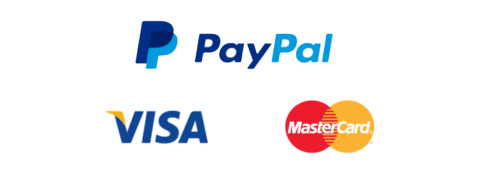
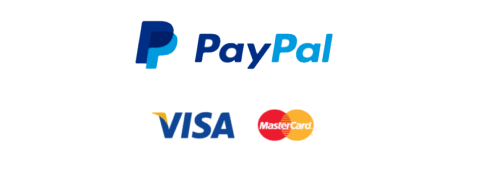
big update

Changed region(s): [[0.5283, 0.5882, 0.7925, 0.9118], [0.2055, 0.6471, 0.499, 0.8529]]

diff --git a/index.html b/index.html
@@ -1005,12 +1005,12 @@ USE OF THIS APP IS FOR PERSONAL USE IN COUNTRIES WHERE THE CONSUMPTION OF ALCOHO
 
 </div>
 <div id="choosepaymentoptions" class="animated fadeIn">
-<h1 style="display:none;">Pay using PesaPal</h1>
-<img style="margin-top:10px;" class="paymentprovider" onClick="localStorage.setItem('payoption','pesapal');paystart();" src="paypesapal.png">
-<h1 style="display:none;">Pay using PayPal</h1>
+<h1 class="payoptionheadline">Pay using PesaPal</h1>
+<img class="paymentprovider" onClick="localStorage.setItem('payoption','pesapal');paystart();" src="paypesapal.png">
+<h1 class="payoptionheadline">Pay using PayPal</h1>
 <img class="paymentprovider" onClick="localStorage.setItem('payoption','paypal');paystart();" src="paypaypal.png">
-<h1 style="display:none;">Cash on Delivery</h1>
-<img class="paymentprovider" onClick="" src="paycash.png">
+<h1 class="payoptionheadline">Cash on Delivery</h1>
+<img class="paymentprovider" onClick="alert('This payment option is not available yet');" src="paycash.png">
 </div>
 
 <div id="devoptions">

diff --git a/main.css b/main.css
@@ -20,6 +20,7 @@ body {
 #agecheck {
 	width: 100%;
 }
+
 #agecheckboxes {
 
 }
@@ -268,12 +269,29 @@ body {
 	z-index: 120;
 	display: none;
 	text-align: center;
+	padding-top: 10px;
+}
+.payoptionheadline {
+	font-size: 14px;
+	color: #000;
+	background-color: #CCC;
+	padding-top: 4px;
+	padding-bottom: 4px;
+	text-align: center;
+	margin-top: 10px;
+	margin-right: auto;
+	margin-bottom: 0px;
+	margin-left: auto;
+	width: 60%;
+	padding-right: 0px;
+	padding-left: 0px;
+	border: 2px solid #CCC;
 }
 .paymentprovider {
-	padding: 5px;
-	width: 70%;
+	padding: 0px;
+	width: 60%;
 	border: 2px solid #CCC;
-	margin-bottom: 3px;
+	margin-top: 3px;
 }
 .paymentprovider:hover {
 	border: 2px solid #000;
